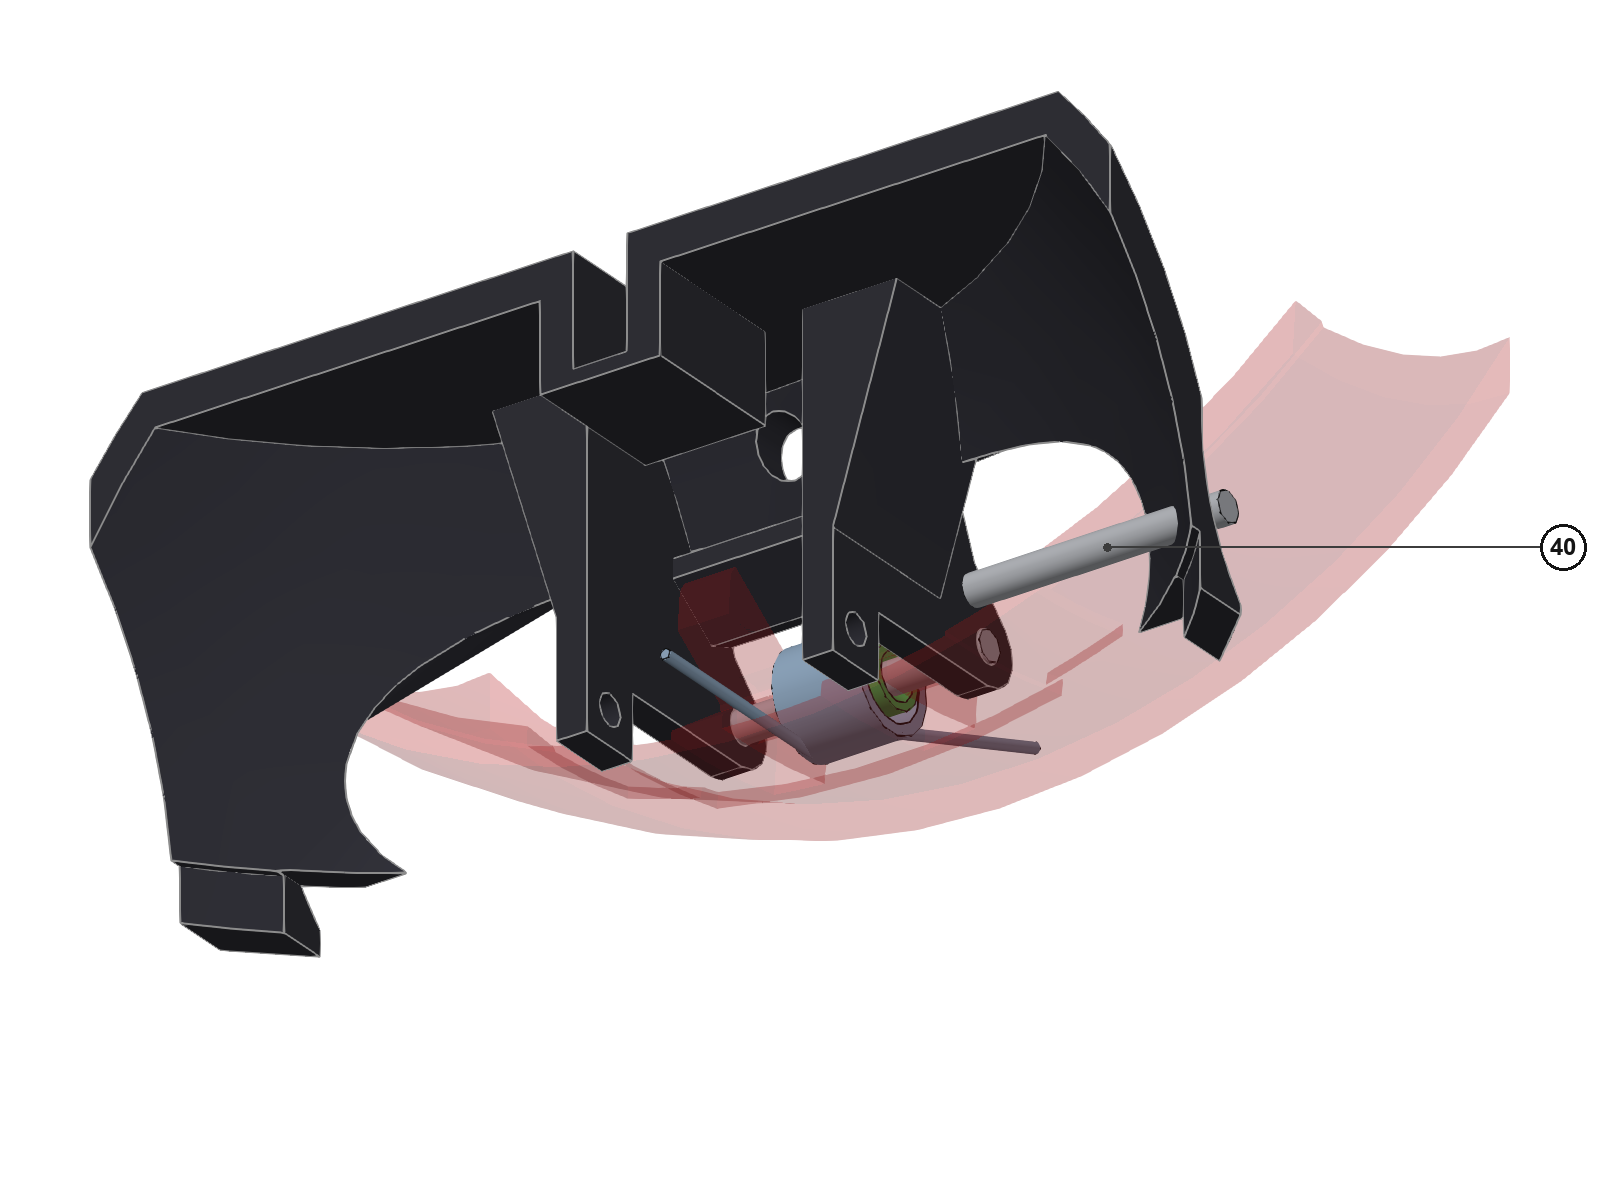
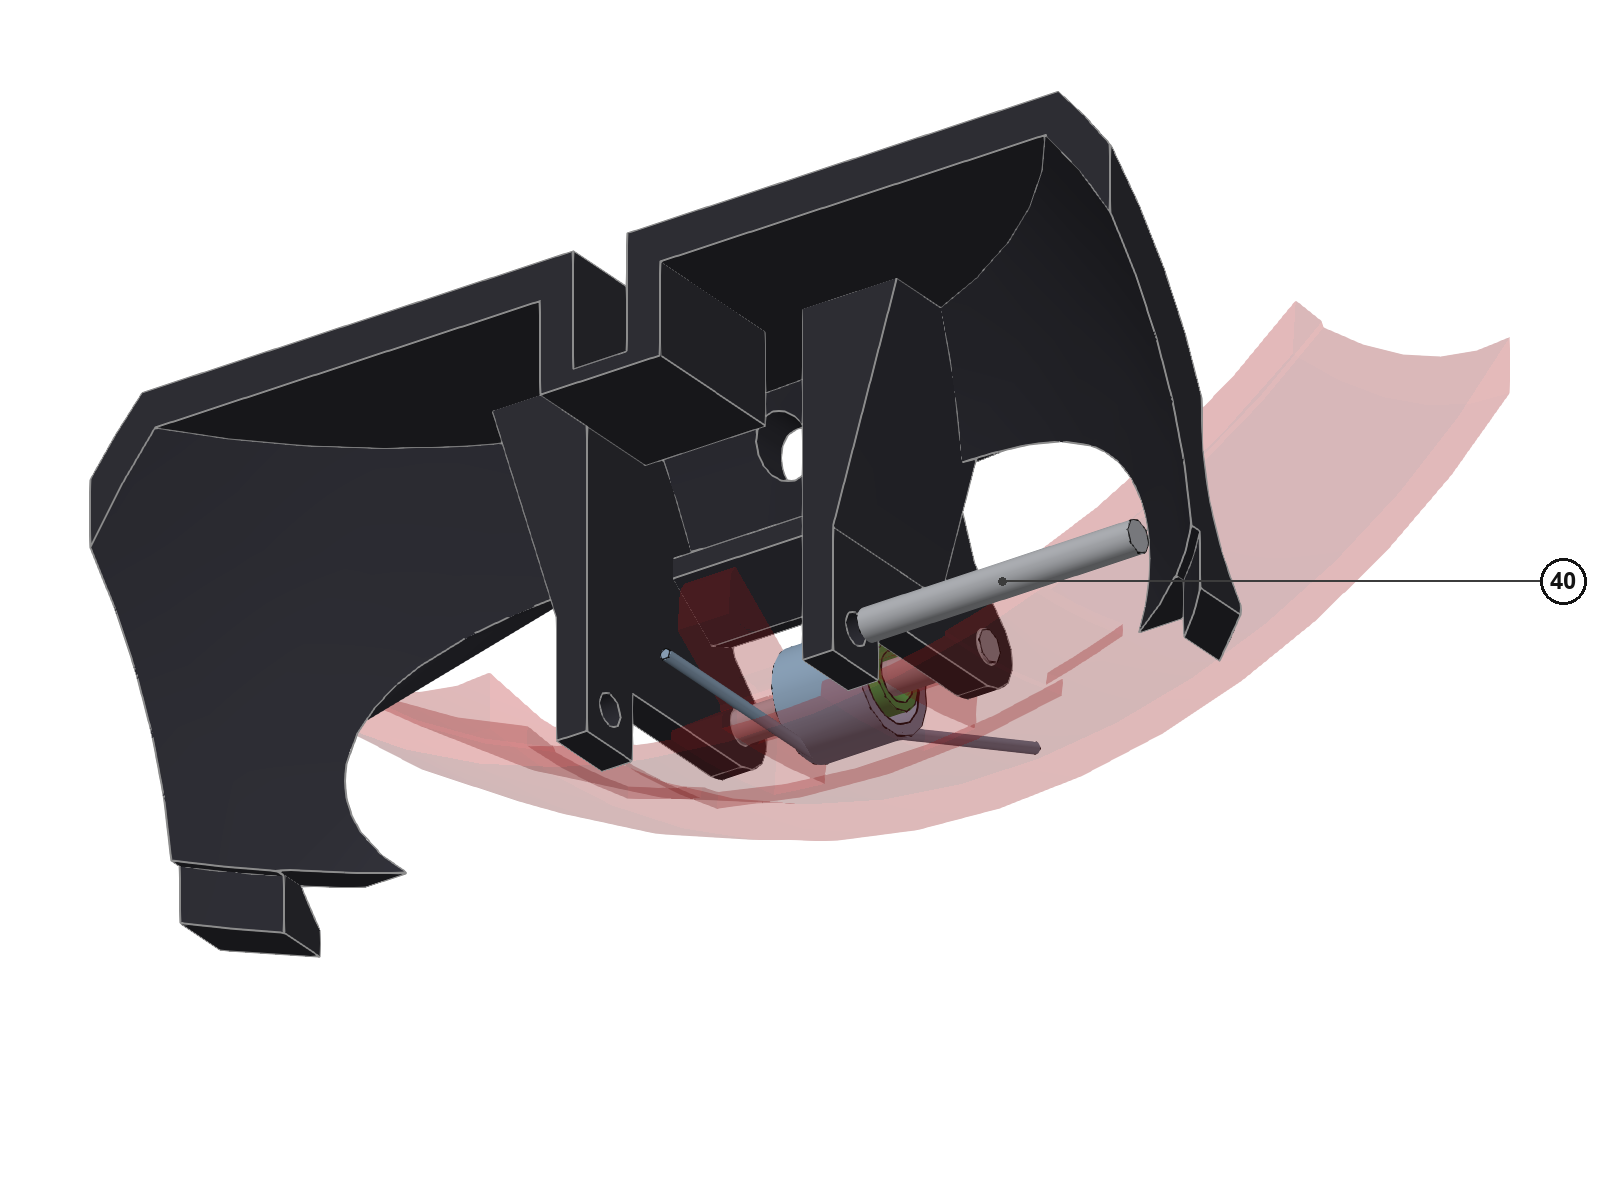
Manual, step 10: draw the pin under the spring leg beside its hole
In the third picture the pin was drawn 26 mm out to the side, which put
it through the wall of the stage. It is now drawn 19 mm out, beside the
foot of the tower and in line with its hole. No part has changed.

Changed region(s): [[0.5312, 0.4625, 0.625, 0.555], [0.6875, 0.4008, 0.7812, 0.4625], [0.9375, 0.4317, 1.0, 0.4933]]

diff --git a/src/poketonieengagementhunt/manual_text.py b/src/poketonieengagementhunt/manual_text.py
@@ -196,7 +196,7 @@ STEPS = [
         "views": [
             {"file": "step_10a.png", "pose": "hinging", "show": STAGE, "new": ["hinge_pin"], "az": 152, "el": 30},
             {"file": "step_10b.png", "pose": "hinging", "show": STAGE + ["hinge_pin"], "new": ["lid", "sleeve", "spring"], "ghost": ["lid"], "lift": {"lid": (-30, 0, 0), "sleeve": (-30, 0, 0), "spring": (-30, 0, 0)}, "az": 152, "el": 30},
-            {"file": "step_10c.png", "pose": "open", "show": ["stage", "lid", "hinge_pin", "sleeve", "spring"], "new": ["yoke_pin"], "ghost": ["lid"], "lift": {"yoke_pin": (0, 26, 0)}, "keep": (-58, -20, -34, 34, -6, 30), "az": 35, "el": -28, "zoom": 1.1},
+            {"file": "step_10c.png", "pose": "open", "show": ["stage", "lid", "hinge_pin", "sleeve", "spring"], "new": ["yoke_pin"], "ghost": ["lid"], "lift": {"yoke_pin": (0, 19, 0)}, "keep": (-58, -20, -34, 34, -6, 30), "az": 35, "el": -28, "zoom": 1.1},
         ],
     },
     {
